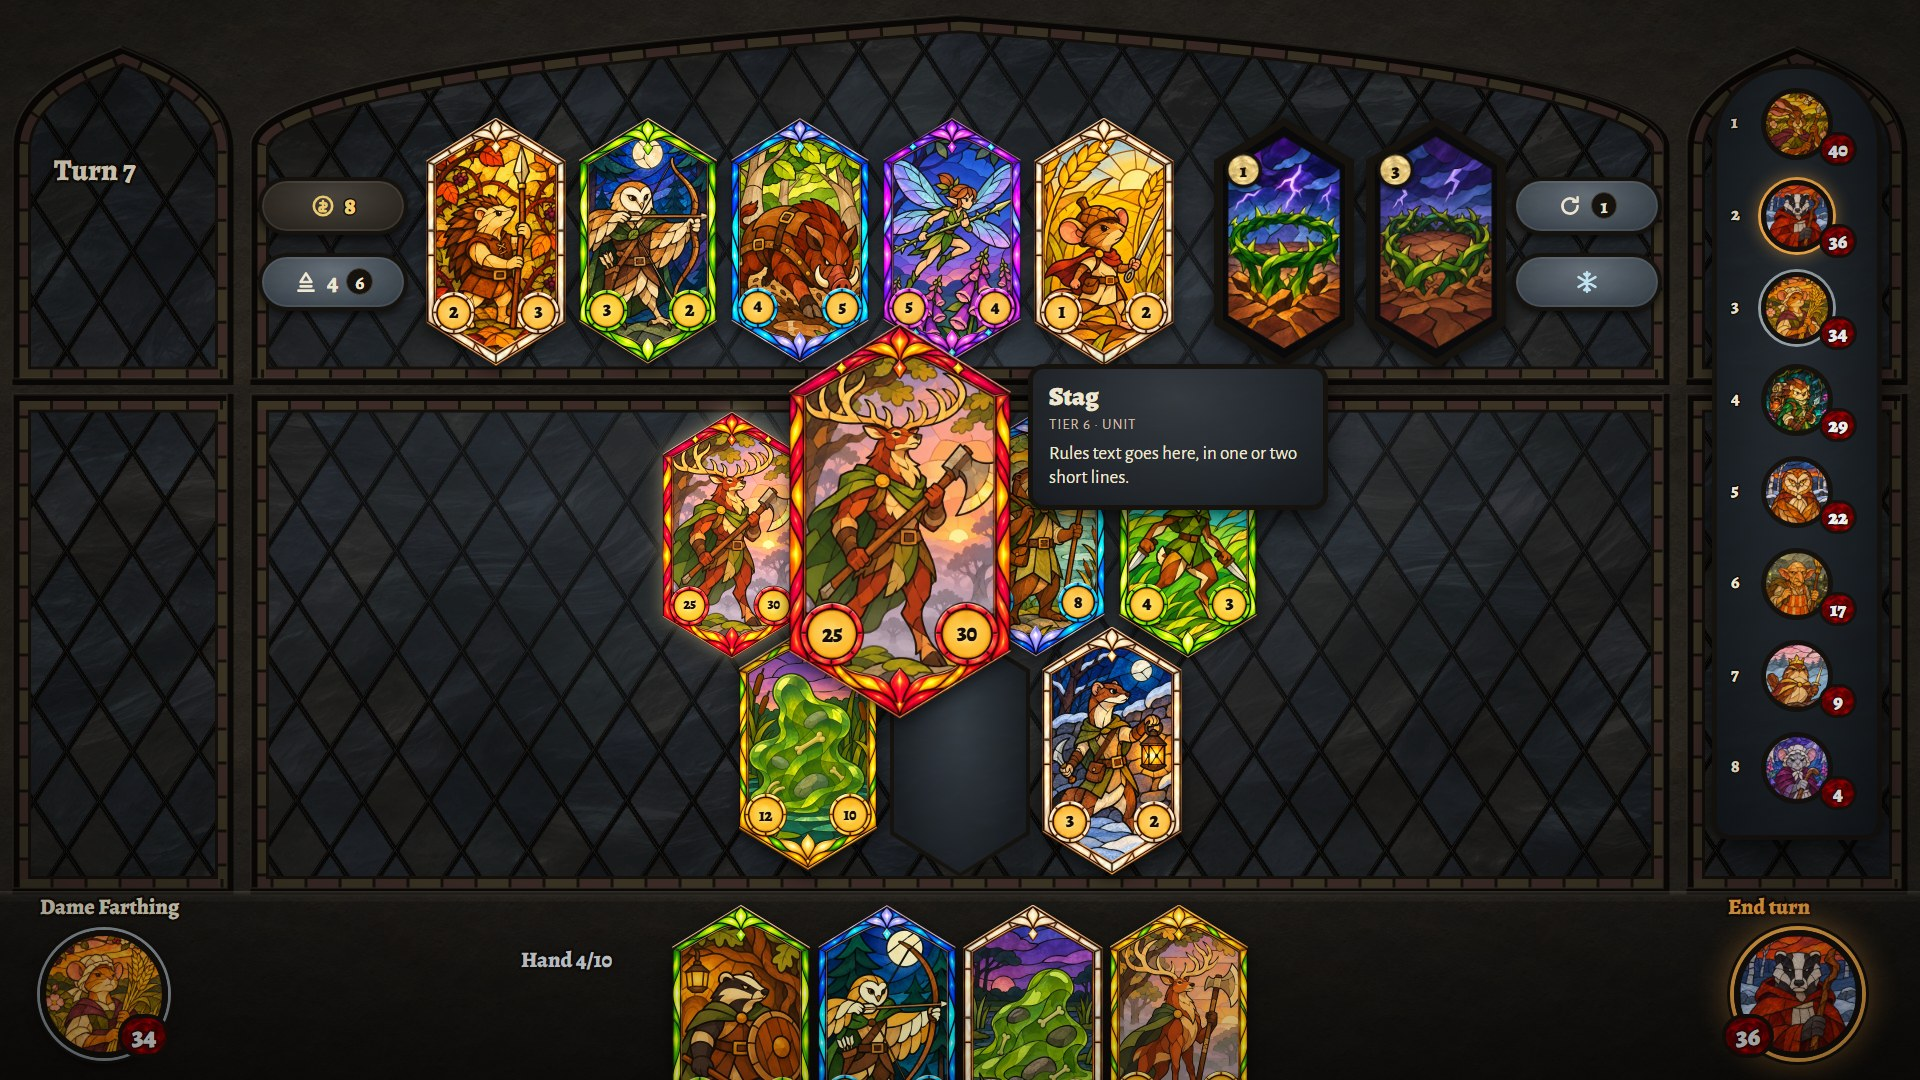
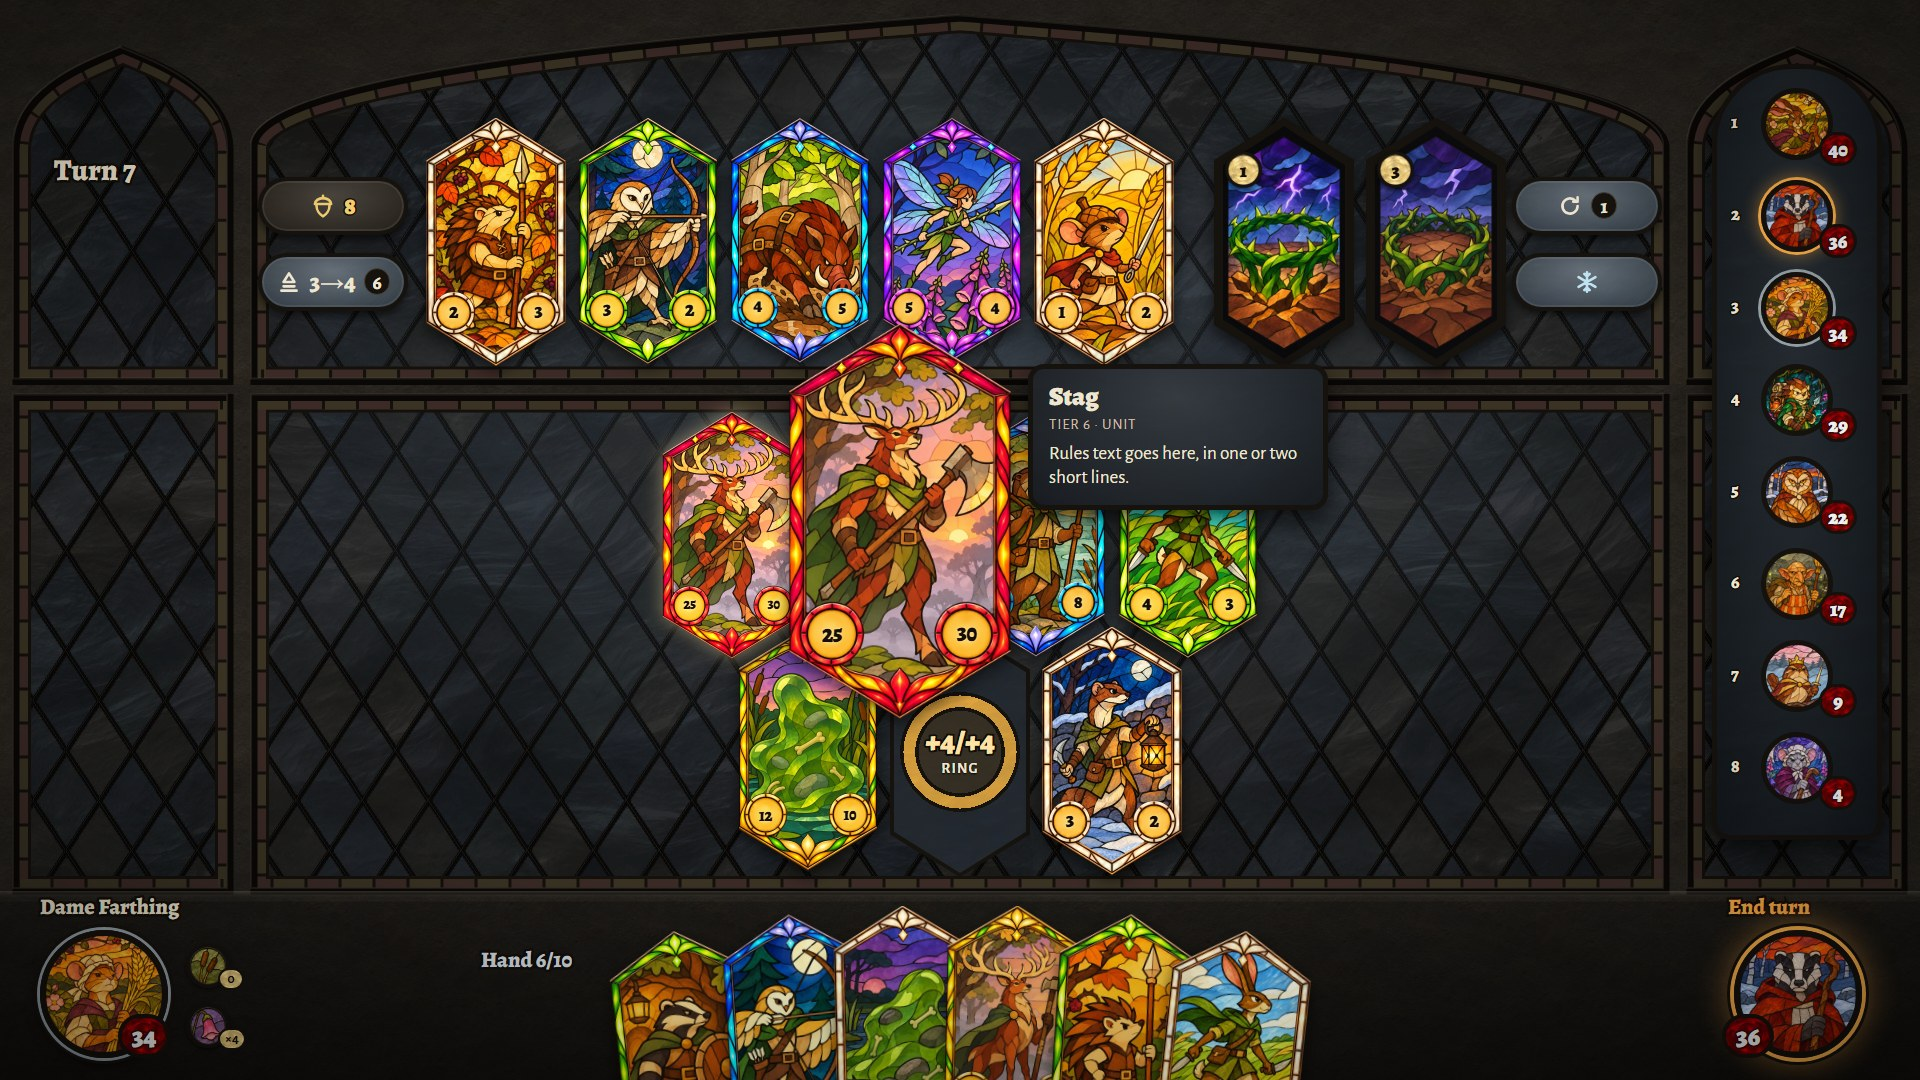
Glass mock-ups: restore the first mock-up's details, record the gap check
From the scope review: the plan keeps the first mock-up's layout, so the acorn gold icon,
"3→4" on Tier up, the fanned hand, the Ring slot and the hero's two chips are back.
prep_assets.py now checks each frame's window lies inside the art polygon (all six pass).

diff --git a/docs/design/art-direction/mockups/recruit.html b/docs/design/art-direction/mockups/recruit.html
@@ -37,6 +37,14 @@ html,body{margin:0;background:var(--page);color:var(--bartext);font-family:var(-
 .slot::after{content:"";position:absolute;inset:4px 4px;clip-path:polygon(50% 0%,100% 17%,100% 83%,50% 100%,0% 83%,0% 17%);
   background:radial-gradient(ellipse at 50% 40%,rgba(150,170,180,.16),rgba(0,0,0,.25) 75%),var(--pane) center/150% auto,#252b31;background-blend-mode:normal,multiply,normal}
 .card{cursor:pointer}
+/* Ring slot (the first mock-up's): a leaded amber ring when empty */
+.slot.ring::after{background:radial-gradient(circle at 50% 50%,transparent 0 30%,var(--lead) 30% 32.5%,rgba(0,0,0,0) 32.5% 41%,var(--lead) 41% 43.5%,transparent 43.5%),
+  var(--pane) center/150% auto,radial-gradient(circle at 50% 50%,#3a3226 0 30%,#e0a540 32% 42%,#252b31 43.5%);background-blend-mode:normal,multiply,normal}
+.slot .rt{position:absolute;inset:0;z-index:1;display:flex;flex-direction:column;align-items:center;justify-content:center;font:900 1em var(--display);color:#ffe2a6;-webkit-text-stroke:4px var(--ink);paint-order:stroke fill;line-height:1}
+.slot .rt small{font:700 .5em var(--body);letter-spacing:.08em;text-transform:uppercase;color:var(--bone);-webkit-text-stroke:0;text-shadow:0 1px 2px #000;margin-top:.3em}
+/* the hero's two chips (the first mock-up's): tribe emblems with a count */
+.chip{position:absolute;width:44px;height:44px;border-radius:50%;background-size:cover;border:3px solid var(--lead);box-shadow:0 2px 4px rgba(0,0,0,.6)}
+.chipv{position:absolute;min-width:26px;height:22px;padding:0 5px;border-radius:11px;display:grid;place-items:center;font:700 14px var(--body);color:var(--ink);background:url(assets/ui/rd-cream.png) center/150% auto,#e8dcc0;border:2px solid var(--lead)}
 .card.hot{filter:brightness(1.1) drop-shadow(0 0 10px rgba(255,236,190,.55)) drop-shadow(0 8px 10px rgba(0,0,0,.6));z-index:5}
 /* controls: leaded glass, calmer than the cards */
 .btn{position:absolute;display:flex;align-items:center;justify-content:center;gap:8px;height:58px;border:4px solid var(--lead);border-radius:30px;
@@ -115,6 +123,8 @@ const HAND = [
   { id: "h1", tier: 3, art: A("owl-2"), attack: 5, health: 5, name: "Barn owl archer" },
   { id: "h2", tier: 1, art: A("ooze-2"), attack: 2, health: 2, name: "Ooze" },
   { id: "h3", tier: 5, art: A("stag-2"), attack: 9, health: 9, name: "Stag" },
+  { id: "h4", tier: 2, art: A("hedgehog-2"), attack: 3, health: 3, name: "Hedgehog pikeman" },
+  { id: "h5", tier: 1, art: A("hare-1"), attack: 2, health: 1, name: "Hare scout" },
 ];
 const LOBBY = [
   { p: "march_hare", hp: 40, t: 4 }, { p: "brother_bracken", hp: 36, t: 4, next: true }, { p: "dame_farthing", hp: 34, t: 4, you: true },
@@ -165,7 +175,7 @@ function stone(G) {
 }
 
 const ICON = {
-  gold: '<svg viewBox="0 0 24 24"><circle cx="12" cy="12" r="8.5"/><path d="M12 7.5v9M9.5 9.5h4a1.8 1.8 0 0 1 0 3.6h-3a1.8 1.8 0 0 0 0 3.6h4"/></svg>',
+  gold: '<svg viewBox="0 0 24 24"><path d="M12 2.5v2.2"/><path d="M4.5 10.2c0-3 3.4-5.5 7.5-5.5s7.5 2.5 7.5 5.5z"/><path d="M6 10.2v1.3c0 4.2 2.7 8.3 6 10 3.3-1.7 6-5.8 6-10v-1.3"/></svg>',
   tier: '<svg viewBox="0 0 24 24"><path d="M5 20h14M7 16h10M12 4l5 8H7z"/></svg>',
   refresh: '<svg viewBox="0 0 24 24"><path d="M19 12a7 7 0 1 1-2.05-4.95"/><path d="M19 4v4h-4"/></svg>',
   freeze: '<svg viewBox="0 0 24 24"><path d="M12 3v18M4.2 7.5l15.6 9M4.2 16.5l15.6-9M9.5 4.5 12 7l2.5-2.5M9.5 19.5 12 17l2.5 2.5"/></svg>',
@@ -185,7 +195,7 @@ function render() {
   SHOP.forEach((c, i) => { if (i === 5) x += G.sg; put(c, x, G.shopTop); x += G.W + G.g; });
   const bw = 150, bxL = G.shopL - 18 - bw, bxR = G.shopL + G.shopW + 18, by1 = G.shopTop + H / 2 - 66, by2 = by1 + 76;
   st.append(place(html(`<div class="btn gold" style="width:${bw}px">${ICON.gold}<b>8</b></div>`), bxL, by1));
-  st.append(place(html(`<div class="btn" style="width:${bw}px">${ICON.tier}4<span class="pip">6</span></div>`), bxL, by2));
+  st.append(place(html(`<div class="btn" style="width:${bw}px">${ICON.tier}3→4<span class="pip">6</span></div>`), bxL, by2));
   st.append(place(html(`<div class="btn" style="width:${bw}px">${ICON.refresh}<span class="pip">1</span></div>`), bxR, by1));
   st.append(place(html(`<div class="btn freeze" style="width:${bw}px">${ICON.freeze}</div>`), bxR, by2));
 
@@ -195,19 +205,27 @@ function render() {
   BOARD.forEach((c, i) => {
     const [sx, sy] = slotXY(i);
     if (c) put(c, sx, sy);
+    else if (i === 5) st.append(place(html(`<div class="slot ring" style="width:${G.W}px;height:${H}px"><div class="rt" style="font-size:${(H * .12).toFixed(0)}px">+4/+4<small>Ring</small></div></div>`), sx, sy));
     else st.append(place(html(`<div class="slot" style="width:${G.W}px;height:${H}px"></div>`), sx, sy));
   });
 
-  // hand: on the sill, cut off by the screen's bottom edge
-  const hw = HAND.length * G.W + (HAND.length - 1) * 6, hx = 960 - hw / 2;
-  HAND.forEach((c, i) => put(c, hx + i * (G.W + 6), G.handTop));
-  st.append(place(html(`<div class="lbl" style="font-size:22px;color:#cfd8de">Hand ${HAND.length}/10</div>`), hx - 150, G.handTop + 40));
+  // hand: a gentle fan on the sill, cut off by the screen's bottom edge (the first mock-up's style)
+  const N = HAND.length, step = G.W * 0.74, hx = 960 - G.W / 2, hw = step * (N - 1) + G.W;
+  HAND.forEach((c, i) => {
+    const k = i - (N - 1) / 2, el = put(c, hx + k * step, G.handTop + k * k * 4);
+    el.style.transform = `rotate(${(k * 2.5).toFixed(2)}deg)`; el.style.transformOrigin = "50% 100%";
+  });
+  st.append(place(html(`<div class="lbl" style="font-size:22px;color:#cfd8de">Hand ${HAND.length}/10</div>`), 960 - hw / 2 - 150, G.handTop + 40));
 
   // left light: Turn at the top, the hero on the sill
   st.append(place(html(`<div class="lbl">Turn 7</div>`), 54, 150));
   st.append(place(html(`<div class="lbl" style="font-size:22px">Dame Farthing</div>`), 40, 1080 - 188));
   st.append(place(html(`<div class="port hero" style="width:128px;height:128px;background-image:url(assets/portraits/dame_farthing.jpg)"></div>`), 40, 1080 - 150));
   st.append(place(html(`<div class="hp">34</div>`), 118, 1080 - 66));
+  [["bog", "0"], ["fairies", "×4"]].forEach(([t, v], i) => {
+    st.append(place(html(`<div class="chip" style="background-image:url(assets/ui/tr-${t}.png)"></div>`), 186, 1080 - 136 + i * 60));
+    st.append(place(html(`<div class="chipv">${v}</div>`), 218, 1080 - 112 + i * 60));
+  });
 
   // right light: End turn (the next opponent) on the sill, the leaderboard above it when shown
   const eX = 1904 - 16 - 128 - 26;

diff --git a/tools/art/mockups/prep_assets.py b/tools/art/mockups/prep_assets.py
@@ -12,7 +12,7 @@ The six frames from frame-lab/final are saved at 560 x 1000 as WebP with their t
 disc positions (frame-lab/final/roundels.json) and the art polygon go into assets/card-data.js for card.js.
 """
 import argparse, glob, json, os
-from PIL import Image
+from PIL import Image, ImageChops, ImageDraw
 
 REPO = os.path.abspath(os.path.join(os.path.dirname(__file__), "..", "..", ".."))
 FINAL = os.path.join(REPO, "docs", "design", "art-direction", "frame-lab", "final")
@@ -43,11 +43,26 @@ def main():
         tier = os.path.basename(path)[4]
         Image.open(path).resize(CARD, Image.LANCZOS).save(os.path.join(OUT, "frames", f"tier{tier}.webp"), quality=92, method=6)
         print("frame", tier)
+    check_windows(spec["art"])
     roundels = json.load(open(os.path.join(FINAL, "roundels.json")))
     # One script file, so the pages also work opened straight from disk (no server, no fetch).
     data = {"note": "Generated by tools/art/mockups/prep_assets.py. roundels: frame-lab/final/roundels.json; art: the art recipe's window.json, card units (560 x 1000).",
             "roundels": roundels, "art": spec["art"]}
     open(os.path.join(OUT, "card-data.js"), "w").write("window.CARD_DATA = " + json.dumps(data, indent=1) + ";\n")
+
+def check_windows(art_poly):
+    """Every see-through pixel of each frame's window must lie inside the art polygon, or the card shows a gap."""
+    art = Image.new("L", (1120, 2000), 0)
+    ImageDraw.Draw(art).polygon([(x * 2, y * 2) for x, y in art_poly], fill=255)
+    outside = art.point(lambda v: 0 if v else 255)
+    for path in sorted(glob.glob(os.path.join(FINAL, "tier[1-6]-*.png"))):
+        if path.endswith("-padded.png"):
+            continue
+        win = Image.open(path).getchannel("A").point(lambda v: 128 if v < 250 else 0)
+        ImageDraw.floodfill(win, (560, 1000), 255, thresh=0)  # the window: see-through area joined to the centre
+        gap = ImageChops.multiply(win.point(lambda v: 255 if v == 255 else 0), outside)
+        n = sum(1 for v in gap.get_flattened_data() if v)
+        print("gap check", os.path.basename(path), "OK" if n == 0 else f"{n} window px outside the art")
 
 if __name__ == "__main__":
     main()

diff --git a/docs/design/art-direction/mockups/README.md b/docs/design/art-direction/mockups/README.md
@@ -22,6 +22,8 @@ Open `recruit.html` or `cards.html` straight from disk in a browser. The switche
 2. **Frame:** the tier's PNG from `frame-lab/final/`, on top.
 3. **Numbers:** Attack on the left disc, Health on the right, centred on that tier's own disc and sized from its radius, from `frame-lab/final/roundels.json`.
 
+`prep_assets.py` also checks that every frame's window lies inside the art polygon (no gaps on any tier); all six pass. The art session checked each of the 24 pictures against the guide (every edge within 6 px).
+
 `assets/card-data.js` holds the disc positions and the art polygon so the pages work without a server. Rebuild the assets after a frame or the art changes:
 
 ```
@@ -34,7 +36,7 @@ Screenshots: `tools/art/mockups/shot.sh <page> "<query>" <out.png> [height]` (he
 
 - **Spells:** no spell frame exists yet. The two shop spells are the recipe's spell picture in a plain lead outline with a cost disc.
 - **Names, numbers and hover text:** placeholders. The art is the art session's test set (12 subjects, two runs each, from `window-art-test/margin-8` on the Optiplex), not decided units.
-- **The window, stone, buttons, portraits and empty slot** are the first glass mock-up's, with the window redrawn to fit the new card sizes.
+- **The window, stone, buttons, portraits, empty slot, Ring slot, the hero's two chips and the fanned hand** are the first glass mock-up's, with the window redrawn to fit the new card sizes. The hand count reads /10, the rulebook's hand limit (7.1.1); the first mock-up said /7.
 
 ## Sources
 
